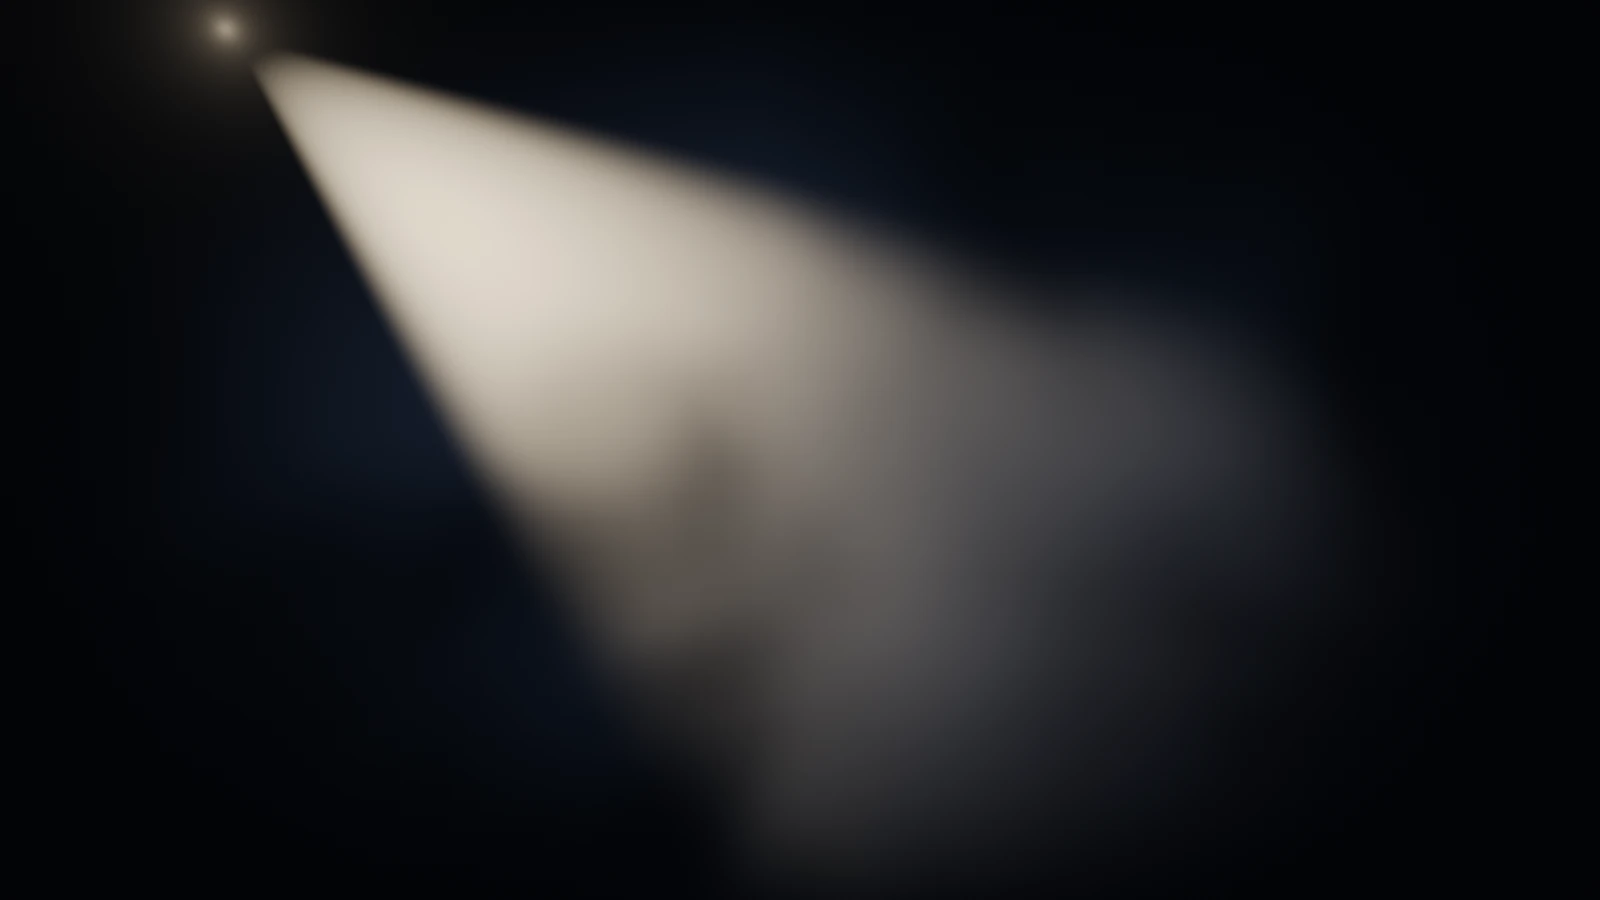
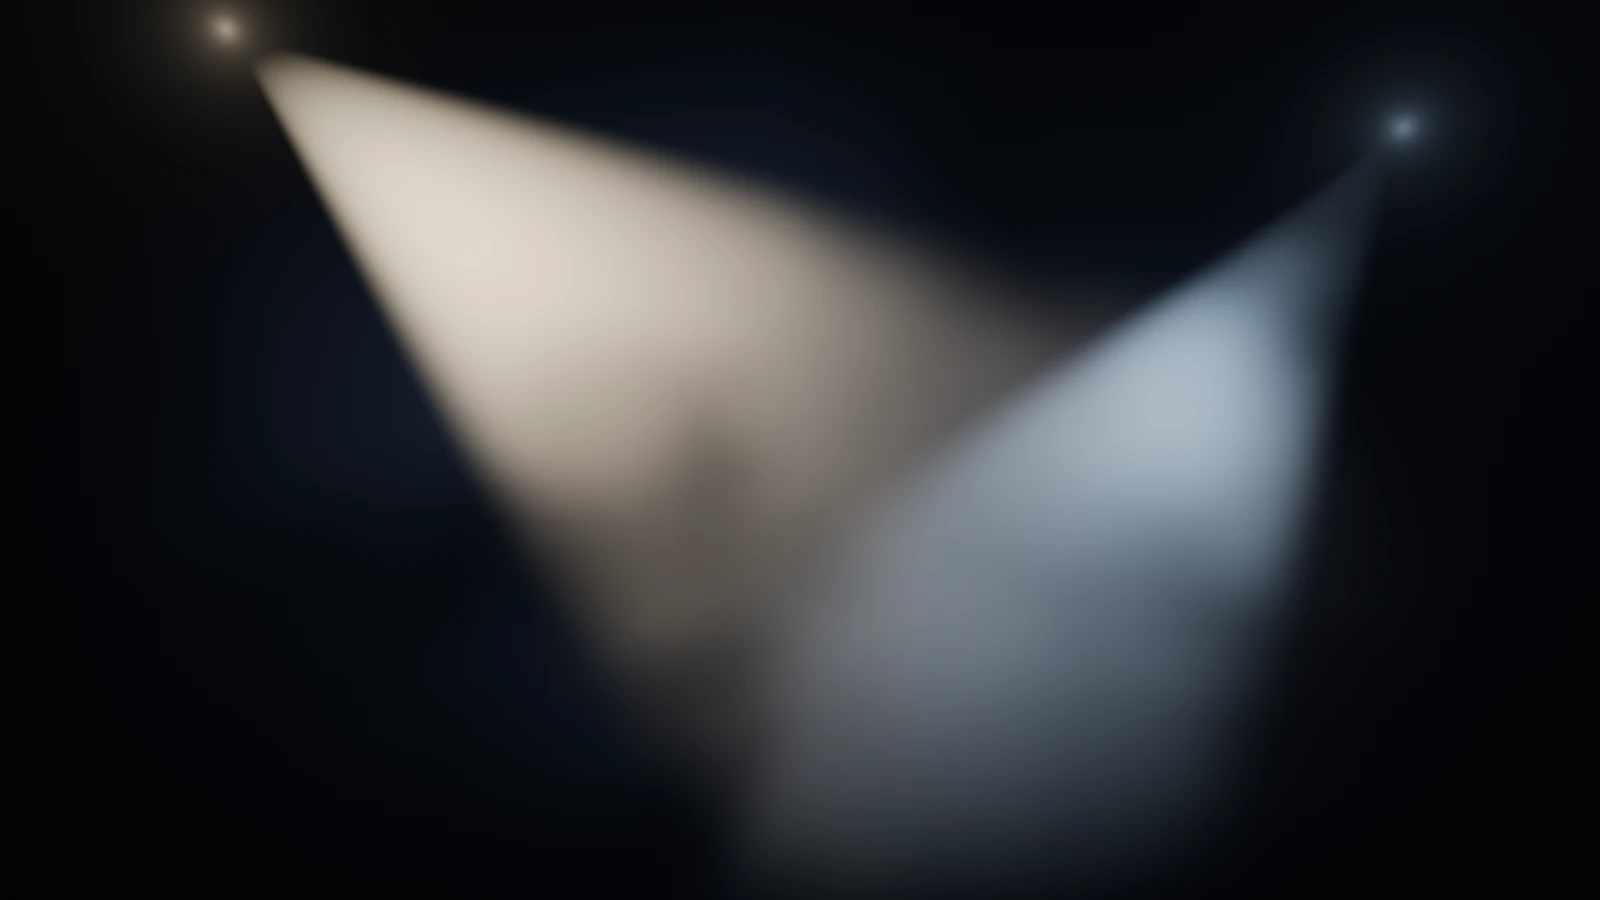
Add a second pointer-tracked WebGPU spotlight

Changed region(s): [[0.5, 0.0622, 0.9375, 0.9333]]

diff --git a/assets/js/light-volume.js b/assets/js/light-volume.js
@@ -1,4 +1,4 @@
-// Light through dust: a single-scattering volume lit by a spotlight, rendered with WebGPU.
+// Light through dust: a single-scattering volume lit by two spotlights, rendered with WebGPU.
 // Density is a baked 3D value-noise volume inside an analytic ellipsoid envelope. Each frame adds
 // one jittered estimate per pixel to a running average that restarts when the light moves.
 // MODEL is shared with tools/render_dust_reference.py, which renders the static fallback image.
@@ -25,6 +25,9 @@ export const MODEL = {
   "lightTarget": [1.35, -1.15, -0.15],
   "lightColor": [1.0, 0.84, 0.64],
   "lightIntensity": 170,
+  "secondLightPosition": [2.9, 1.65, 1.05],
+  "secondLightColor": [0.61, 0.8, 1.0],
+  "secondLightIntensity": 105,
   "cosInner": 0.96,
   "cosOuter": 0.90,
   "ambient": [0.035, 0.05, 0.08],
@@ -129,7 +132,11 @@ const WISP_HIGH = ${number(MODEL.wispHigh)};
 const DENSITY_FLOOR = ${number(MODEL.densityFloor)};
 const DENSITY_GAIN = ${number(MODEL.densityGain)};
 
-@group(0) @binding(0) var<uniform> u: array<vec4f, 8>;
+const SECOND_LIGHT_POSITION = ${vec3(MODEL.secondLightPosition)};
+const SECOND_LIGHT_COLOR = ${vec3(MODEL.secondLightColor)};
+const SECOND_LIGHT_INTENSITY = ${number(MODEL.secondLightIntensity)};
+
+@group(0) @binding(0) var<uniform> u: array<vec4f, 9>;
 @group(0) @binding(1) var volumeTex: texture_3d<f32>;
 @group(0) @binding(2) var volumeSampler: sampler;
 @group(0) @binding(3) var accumTex: texture_2d<f32>;
@@ -183,6 +190,38 @@ fn lightTransmittance(p: vec3f, toLight: vec3f, dist: f32, steps: u32, jitter: f
   return exp(-sigmaT * tau);
 }
 
+struct Spotlight {
+  position: vec3f,
+  direction: vec3f,
+  color: vec3f,
+  intensity: f32,
+}
+
+fn spotlightRadiance(light: Spotlight, p: vec3f, rd: vec3f, jitter: f32) -> vec3f {
+  let delta = light.position - p;
+  let d2 = max(dot(delta, delta), 1e-4);
+  let d = sqrt(d2);
+  let toLight = delta / d;
+  let cone = smoothstep(u[4].w, u[3].w, dot(-toLight, light.direction));
+  if (cone <= 0.0) {
+    return vec3f(0.0);
+  }
+  let sigmaT = u[6].x + u[6].y;
+  let lightT = lightTransmittance(p, toLight, d, u32(u[7].y), jitter, u[5].w, sigmaT);
+  return light.color * (light.intensity * cone * lightT / d2) * phaseHG(dot(rd, toLight), u[6].z);
+}
+
+fn lampHalo(position: vec3f, camera: vec3f, rd: vec3f) -> f32 {
+  let toLamp = position - camera;
+  let along = dot(toLamp, rd);
+  if (along <= 0.0) {
+    return 0.0;
+  }
+  let across = toLamp - rd * along;
+  let across2 = dot(across, across);
+  return 1.0 / (1.0 + 400.0 * across2) + 0.15 / (1.0 + 12.0 * across2);
+}
+
 @vertex
 fn fullscreen(@builtin(vertex_index) index: u32) -> @builtin(position) vec4f {
   let corners = array<vec2f, 3>(vec2f(-1.0, -1.0), vec2f(3.0, -1.0), vec2f(-1.0, 3.0));
@@ -196,19 +235,13 @@ fn trace(@builtin(position) frag: vec4f) -> @location(0) vec4f {
   let blend = u[0].w;
   let camera = u[1].xyz;
   let fovTan = u[1].w;
-  let lightPos = u[2].xyz;
-  let lightIntensity = u[2].w;
-  let lightDir = u[3].xyz;
-  let cosInner = u[3].w;
-  let lightColor = u[4].xyz;
-  let cosOuter = u[4].w;
+  let left = Spotlight(u[2].xyz, u[3].xyz, u[4].xyz, u[2].w);
+  let right = Spotlight(SECOND_LIGHT_POSITION, u[8].xyz, SECOND_LIGHT_COLOR, SECOND_LIGHT_INTENSITY);
   let ambient = u[5].xyz;
   let time = u[5].w;
   let sigmaA = u[6].x;
   let sigmaS = u[6].y;
-  let g = u[6].z;
   let viewSteps = u32(u[7].x);
-  let lightSteps = u32(u[7].y);
 
   let sigmaT = sigmaA + sigmaS;
   let albedo = sigmaS / sigmaT;
@@ -231,30 +264,17 @@ fn trace(@builtin(position) frag: vec4f) -> @location(0) vec4f {
       if (rho > 0.0) {
         let segT = exp(-sigmaT * rho * ds);
         let scatter = albedo * (1.0 - segT);
-        let delta = lightPos - p;
-        let d2 = max(dot(delta, delta), 1e-4);
-        let d = sqrt(d2);
-        let toLight = delta / d;
-        let cone = smoothstep(cosOuter, cosInner, dot(-toLight, lightDir));
-        var key = vec3f(0.0);
-        if (cone > 0.0) {
-          let lightT = lightTransmittance(p, toLight, d, lightSteps, lightJitter, time, sigmaT);
-          key = lightColor * (lightIntensity * cone * lightT / d2) * phaseHG(dot(rd, toLight), g);
-        }
-        radiance += viewT * scatter * (key + ambient);
+        let leftLight = spotlightRadiance(left, p, rd, lightJitter);
+        let rightLight = spotlightRadiance(right, p, rd, lightJitter);
+        radiance += viewT * scatter * (leftLight + rightLight + ambient);
         viewT *= segT;
       }
     }
   }
 
-  let toLamp = lightPos - camera;
-  let along = dot(toLamp, rd);
-  let across = toLamp - rd * along;
-  let across2 = dot(across, across);
-  let halo = 1.0 / (1.0 + 400.0 * across2) + 0.15 / (1.0 + 12.0 * across2);
-  if (along > 0.0) {
-    radiance += viewT * GLARE * lightColor * halo;
-  }
+  let leftGlare = left.color * lampHalo(left.position, camera, rd);
+  let rightGlare = right.color * lampHalo(right.position, camera, rd) * (right.intensity / left.intensity);
+  radiance += viewT * GLARE * (leftGlare + rightGlare);
 
   let background = BACKGROUND * (0.85 + 0.15 * exp(-dot(uv, uv) * 0.7));
   let hdr = radiance + background * viewT;
@@ -396,8 +416,8 @@ export async function createLightVolume(canvas, options = {}) {
 
   const repeatSampler = device.createSampler({ addressModeU: 'repeat', addressModeV: 'repeat', addressModeW: 'repeat', magFilter: 'linear', minFilter: 'linear' });
   const clampSampler = device.createSampler({ addressModeU: 'clamp-to-edge', addressModeV: 'clamp-to-edge', magFilter: 'linear', minFilter: 'linear' });
-  const uniformBuffer = device.createBuffer({ label: 'frame parameters', size: 128, usage: GPUBufferUsage.UNIFORM | GPUBufferUsage.COPY_DST });
-  const uniforms = new Float32Array(32);
+  const uniforms = new Float32Array(36);
+  const uniformBuffer = device.createBuffer({ label: 'frame parameters', size: uniforms.byteLength, usage: GPUBufferUsage.UNIFORM | GPUBufferUsage.COPY_DST });
   const timing = timed ? {
     set: device.createQuerySet({ type: 'timestamp', count: 2 }),
     resolve: device.createBuffer({ size: 16, usage: GPUBufferUsage.QUERY_RESOLVE | GPUBufferUsage.COPY_SRC }),
@@ -420,7 +440,7 @@ export async function createLightVolume(canvas, options = {}) {
     frameIndex: 0,
     accumulated: 0,
     gpuMs: null,
-    previousDirection: null,
+    previousDirections: null,
     samples: [],
     adaptive: false,
     busy: false
@@ -509,9 +529,8 @@ export async function createLightVolume(canvas, options = {}) {
     });
   }
 
-  function lightDirection(aimX, aimY) {
+  function lightDirection(origin, aimX, aimY) {
     const target = MODEL.lightTarget;
-    const origin = MODEL.lightPosition;
     const dx = target[0] + aimX - origin[0];
     const dy = target[1] + aimY - origin[1];
     const dz = target[2] - origin[2];
@@ -519,7 +538,7 @@ export async function createLightVolume(canvas, options = {}) {
     return [dx * inverse, dy * inverse, dz * inverse];
   }
 
-  function writeUniforms(time, direction, blend) {
+  function writeUniforms(time, [left, right], blend) {
     const camera = MODEL.camera;
     const light = MODEL.lightPosition;
     const color = MODEL.lightColor;
@@ -527,25 +546,32 @@ export async function createLightVolume(canvas, options = {}) {
     uniforms.set([state.width, state.height, state.frameIndex, blend], 0);
     uniforms.set([camera[0], camera[1], camera[2], MODEL.fovTan], 4);
     uniforms.set([light[0], light[1], light[2], MODEL.lightIntensity], 8);
-    uniforms.set([direction[0], direction[1], direction[2], MODEL.cosInner], 12);
+    uniforms.set([left[0], left[1], left[2], MODEL.cosInner], 12);
     uniforms.set([color[0], color[1], color[2], MODEL.cosOuter], 16);
     uniforms.set([ambient[0], ambient[1], ambient[2], time], 20);
     uniforms.set([MODEL.sigmaA, MODEL.sigmaS, MODEL.g, MODEL.exposure], 24);
     uniforms.set([state.viewSteps, state.lightSteps, state.canvasWidth, state.canvasHeight], 28);
+    uniforms.set(right, 32);
     device.queue.writeBuffer(uniformBuffer, 0, uniforms);
   }
 
   function frame(time, aimX, aimY) {
     if (failed || disposed || state.busy) return;
-    const direction = lightDirection(aimX, aimY);
-    const previous = state.previousDirection;
-    if (previous && Math.hypot(direction[0] - previous[0], direction[1] - previous[1], direction[2] - previous[2]) > 1e-3) {
+    const directions = [
+      lightDirection(MODEL.lightPosition, aimX, aimY),
+      lightDirection(MODEL.secondLightPosition, aimX, aimY)
+    ];
+    const previous = state.previousDirections;
+    if (previous && directions.some(([x, y, z], index) => {
+      const [px, py, pz] = previous[index];
+      return Math.hypot(x - px, y - py, z - pz) > 1e-3;
+    })) {
       state.accumulated = 0;
     }
-    state.previousDirection = direction;
+    state.previousDirections = directions;
     const count = Math.min(state.accumulated + 1, ACCUMULATION_LIMIT);
     state.accumulated = count;
-    writeUniforms(time, direction, 1 / count);
+    writeUniforms(time, directions, 1 / count);
 
     const p = state.frameIndex & 1;
     const timestamps = Boolean(timing) && !timing.busy;

diff --git a/_includes/head.html b/_includes/head.html
@@ -41,7 +41,7 @@
   <meta name="theme-color" content="#06080b" />
   <meta name="color-scheme" content="dark" />
   <link rel="preload" href="{{ '/assets/fonts/manrope-latin.woff2' | relative_url }}" as="font" type="font/woff2" crossorigin />
-  <link rel="preload" as="image" type="image/webp" href="{{ '/assets/images/dust-volume-fallback.webp' | relative_url }}"{% if page.url == '/' %} fetchpriority="high"{% endif %} />
+  <link rel="preload" as="image" type="image/webp" href="{{ '/assets/images/dust-volume-fallback.webp' | relative_url }}?v=20261114-two-spotlights"{% if page.url == '/' %} fetchpriority="high"{% endif %} />
   <link rel="stylesheet" href="{{ '/assets/css/style.css' | relative_url }}?v=20261114-metrics-motion" />
   <title>{{ seo_title | xml_escape }}</title>
   <meta name="description" content="{{ seo_description | xml_escape }}" />

diff --git a/_layouts/default.html b/_layouts/default.html
@@ -3,7 +3,7 @@
   {% include head.html %}
   <body{% if page.url == '/' %} class="home"{% endif %} data-volume data-state="loading">
     <div class="volume-background" data-volume-stage aria-hidden="true">
-      <img class="volume-background__still" data-volume-still src="{{ '/assets/images/dust-volume-fallback.webp' | relative_url }}" width="1600" height="900" alt="" decoding="async" />
+      <img class="volume-background__still" data-volume-still src="{{ '/assets/images/dust-volume-fallback.webp' | relative_url }}?v=20261114-two-spotlights" width="1600" height="900" alt="" decoding="async" />
       <canvas class="volume-background__canvas" data-volume-canvas width="1600" height="900" hidden></canvas>
     </div>
     {% include header.html %}

diff --git a/index.html b/index.html
@@ -27,7 +27,7 @@ description: Semih Güreşçi is a GPU rendering and performance engineer in Lux
         <a class="btn btn--ghost" href="{{ '/cv/' | relative_url }}">Read the CV</a>
         <a class="btn btn--linkedin" href="{{ site.social_linkedin }}" target="_blank" rel="noopener">LinkedIn profile <span aria-hidden="true">↗</span><span class="visually-hidden"> (opens in a new tab)</span></a>
       </div>
-      <p class="hero__hint">The background is a live volume study: dust drifts and boils through the beam while the pointer steers the light.</p>
+      <p class="hero__hint">Dust drifts through both beams as you steer the spotlights with your pointer.</p>
     </div>
   </div>
 

diff --git a/_includes/scripts.html b/_includes/scripts.html
@@ -1,2 +1,2 @@
 <script src="{{ '/assets/js/site.js' | relative_url }}?v=20261114-metrics-motion" defer></script>
-<script type="module" src="{{ '/assets/js/light-volume.js' | relative_url }}?v=20261114-hero-controls"></script>
+<script type="module" src="{{ '/assets/js/light-volume.js' | relative_url }}?v=20261114-two-spotlights"></script>

diff --git a/tools/render_dust_reference.py b/tools/render_dust_reference.py
@@ -167,9 +167,20 @@ def light_transmittance(model, grid, p, to_light, distance, time_seconds, sigma_
 
 def render_hdr(model, grid, width, height, view_steps, light_steps, time_seconds=0.0, rows_per_chunk=24):
     camera = np.asarray(model["camera"], dtype=np.float64)
-    light_pos = np.asarray(model["lightPosition"], dtype=np.float64)
-    light_dir = normalize(np.asarray(model["lightTarget"], dtype=np.float64) - light_pos)
-    light_color = np.asarray(model["lightColor"], dtype=np.float64)
+    target = np.asarray(model["lightTarget"], dtype=np.float64)
+    lights = []
+    for position, color, intensity, glare in (
+        (model["lightPosition"], model["lightColor"], model["lightIntensity"], model["glare"]),
+        (
+            model["secondLightPosition"],
+            model["secondLightColor"],
+            model["secondLightIntensity"],
+            model["glare"] * model["secondLightIntensity"] / model["lightIntensity"],
+        ),
+    ):
+        pos = np.asarray(position, dtype=np.float64)
+        lights.append((pos, normalize(target - pos), np.asarray(color, dtype=np.float64), intensity, glare))
+    cos_outer, cos_inner = model["cosOuter"], model["cosInner"]
     ambient = np.asarray(model["ambient"], dtype=np.float64)
     background = np.asarray(model["background"], dtype=np.float64)
     ellipsoid = np.asarray(model["ellipsoid"], dtype=np.float64)
@@ -200,26 +211,27 @@ def render_hdr(model, grid, width, height, view_steps, light_steps, time_seconds
             scatter = albedo * (1.0 - seg_t)
             radiance += (view_t * scatter)[..., None] * ambient
 
-            delta = light_pos - p
-            d2 = np.maximum(np.sum(delta * delta, axis=-1), 1e-4)
-            d = np.sqrt(d2)
-            to_light = delta / d[..., None]
-            cone = smoothstep(model["cosOuter"], model["cosInner"], -np.sum(to_light * light_dir, axis=-1))
-            lit = (cone > 0.0) & (rho > 0.0)
-            if np.any(lit):
-                light_t = light_transmittance(model, grid, p[lit], to_light[lit], d[lit], time_seconds, sigma_t, light_steps)
-                phase = phase_hg(np.sum(rd[lit] * to_light[lit], axis=-1), g)
-                key = light_color * (model["lightIntensity"] * cone[lit] * light_t / d2[lit] * phase)[:, None]
-                radiance[lit] += (view_t[lit] * scatter[lit])[:, None] * key
+            for light_pos, light_dir, light_color, intensity, _ in lights:
+                delta = light_pos - p
+                d2 = np.maximum(np.sum(delta * delta, axis=-1), 1e-4)
+                d = np.sqrt(d2)
+                to_light = delta / d[..., None]
+                cone = smoothstep(cos_outer, cos_inner, -np.sum(to_light * light_dir, axis=-1))
+                lit = (cone > 0.0) & (rho > 0.0)
+                if np.any(lit):
+                    light_t = light_transmittance(model, grid, p[lit], to_light[lit], d[lit], time_seconds, sigma_t, light_steps)
+                    phase = phase_hg(np.sum(rd[lit] * to_light[lit], axis=-1), g)
+                    key = light_color * (intensity * cone[lit] * light_t / d2[lit] * phase)[:, None]
+                    radiance[lit] += (view_t[lit] * scatter[lit])[:, None] * key
             view_t *= seg_t
 
-        to_lamp = light_pos - camera
-        along = np.sum(rd * to_lamp, axis=-1)
-        across = to_lamp - rd * along[..., None]
-        across2 = np.sum(across * across, axis=-1)
-        halo = 1.0 / (1.0 + 400.0 * across2) + 0.15 / (1.0 + 12.0 * across2)
-        glare = view_t * model["glare"] * (along > 0.0) * halo
-        radiance += glare[..., None] * light_color
+        for light_pos, _, light_color, _, glare in lights:
+            to_lamp = light_pos - camera
+            along = np.sum(rd * to_lamp, axis=-1)
+            across = to_lamp - rd * along[..., None]
+            across2 = np.sum(across * across, axis=-1)
+            halo = 1.0 / (1.0 + 400.0 * across2) + 0.15 / (1.0 + 12.0 * across2)
+            radiance += (view_t * glare * (along > 0.0) * halo)[..., None] * light_color
 
         glow = np.exp(-0.7 * (uv_x * uv_x + uv_y * uv_y))
         radiance += (background * (0.85 + 0.15 * glow)[..., None]) * view_t[..., None]

diff --git a/tools/validate_volume_study.py b/tools/validate_volume_study.py
@@ -15,7 +15,7 @@ import numpy as np
 
 sys.path.insert(0, str(Path(__file__).resolve().parent))
 
-from render_dust_reference import SOURCE, box_span, build_volume, load_model, phase_hg, value_noise  # noqa: E402
+from render_dust_reference import SOURCE, box_span, build_volume, load_model, phase_hg, render_hdr, value_noise  # noqa: E402
 
 
 def check(condition: bool, message: str, failures: list[str]) -> None:
@@ -52,12 +52,21 @@ def main() -> int:
     share = float(np.mean((grid > low) & (grid < high)))
     check(0.05 < share < 0.95, f"wisp thresholds cover a useful share of the volume ({share:.2f} in transition band)", failures)
 
-    # The lamp and camera stay outside the dust envelope, so the spotlight never sits inside the medium.
+    # The lamps and camera stay outside the dust envelope.
     ellipsoid = np.asarray(model["ellipsoid"])
-    for name in ("lightPosition", "camera"):
+    for name in ("lightPosition", "secondLightPosition", "camera"):
         point = np.asarray(model[name])
         radius = float(np.sum((point / ellipsoid) ** 2))
         check(radius > 1.0, f"{name} lies outside the dust envelope (r^2 = {radius:.2f})", failures)
+
+    # Isolate volumetric scattering from lamp glare when checking the second beam.
+    no_glare = {**model, "glare": 0}
+    primary_only = render_hdr({**no_glare, "secondLightIntensity": 0}, grid, 64, 36, 12, 4)
+    both = render_hdr(no_glare, grid, 64, 36, 12, 4)
+    brighter = render_hdr({**no_glare, "secondLightIntensity": 2 * model["secondLightIntensity"]}, grid, 64, 36, 12, 4)
+    second_light = both - primary_only
+    check(np.max(second_light) > 1e-6, "second spotlight illuminates the dust", failures)
+    check(np.allclose(brighter - both, second_light), "second spotlight radiance scales with intensity", failures)
 
     # Ray-box span: a ray through the centre crosses the envelope symmetrically.
     origin = np.array([0.0, 0.0, 6.0])

diff --git a/docs/site.md b/docs/site.md
@@ -61,18 +61,18 @@ After cutover, check the HTTP redirect and both framing headers on the homepage,
 
 ## WebGPU background
 
-The site background is a single-scattering volume lit by a spotlight. The shared layout keeps the canvas fixed behind the content while you scroll. Browsers that support the Navigation API replace the main content when you follow an internal page link, keeping the same canvas and renderer running. When WebGPU is unavailable or the device is lost, the background shows the static render from `assets/images/dust-volume-fallback.webp`.
+The site background is a single-scattering volume lit by a warm spotlight on the upper left and a cool spotlight on the upper right. The shared layout keeps the canvas fixed behind the content while you scroll. Browsers that support the Navigation API replace the main content when you follow an internal page link, keeping the same canvas and renderer running. When WebGPU is unavailable or the device is lost, the background shows the static render from `assets/images/dust-volume-fallback.webp`.
 
 Each frame does the following:
 
 1. **Density:** a 64³ value-noise volume is baked by a compute pass at startup. Each density sample is one trilinear fetch. The field drifts across the frame, and a time-varying warp makes the dust boil, so the structure keeps changing. An analytic ellipsoid envelope keeps the edges soft.
-2. **Trace:** each pixel takes one jittered estimate. Each sample marches toward the spotlight to estimate shadowing. A cool ambient term adds fill, and a stylized lamp glare marks the source.
+2. **Trace:** each pixel takes one jittered estimate. A sample inside either spotlight cone marches toward that light to estimate shadowing. A cool ambient term adds fill, and a halo marks each light source.
 3. **Accumulation:** the estimate is blended into a running average of eight frames. That smooths the jitter without smearing the moving dust. The average restarts when the light moves.
 4. **Present:** an ACES tone map, a small glow around bright regions, a vignette, and triangular dither before the sRGB encode.
 
 The HUD reports GPU time from timestamp queries when the browser exposes them, and it plots the last 120 samples against a 10 ms budget. In Auto quality, the render scale adjusts to hold that budget. Eco, Balanced, and Ultra fix the scale and sample counts.
 
-The spotlight aims toward the pointer across the site. Its target stays inside the dust volume near the viewport edges. The beam sweeps on its own when the pointer leaves the page. The pause button sits next to Render quality on the homepage and in the header on other pages. It stops the automatic motion and remembers the choice for the tab. Reduced motion starts paused. The animation also pauses when the tab is hidden.
+Both spotlights aim toward the pointer across the site. Their shared target stays inside the dust volume near the viewport edges. The beams sweep on their own when the pointer leaves the page. The pause button sits next to Render quality on the homepage and in the header on other pages. It stops the automatic motion and remembers the choice for the tab. Reduced motion starts paused. The animation also pauses when the tab is hidden.
 
 ### Volume model
 
@@ -86,7 +86,7 @@ L += Tview * (sigmaS / sigmaT) * (1 - Tsegment) * (incident * phaseHG(mu) + ambi
 Tview *= Tsegment
 ```
 
-`warp(t)` is a smooth set of sine offsets in the three axes, so the dust boils as well as drifting. `sigmaT = sigmaA + sigmaS`. The segment transmittance is analytic. The in-scattered light is sampled at the jittered point. The spotlight has inverse-square falloff and a soft cone. The Henyey–Greenstein phase uses `g = 0.30`. The references are [Beer–Lambert transmittance](https://www.pbr-book.org/4ed/Volume_Scattering/Transmittance) and [Henyey–Greenstein scattering](https://www.pbr-book.org/4ed/Volume_Scattering/Phase_Functions).
+`warp(t)` is a smooth set of sine offsets in the three axes, so the dust boils as well as drifting. `sigmaT = sigmaA + sigmaS`. The segment transmittance is analytic. The in-scattered light is sampled at the jittered point. Both spotlights have inverse-square falloff and soft cones. The Henyey–Greenstein phase uses `g = 0.30`. The references are [Beer–Lambert transmittance](https://www.pbr-book.org/4ed/Volume_Scattering/Transmittance) and [Henyey–Greenstein scattering](https://www.pbr-book.org/4ed/Volume_Scattering/Phase_Functions).
 
 Because the same `MODEL` object feeds both the WGSL shaders and the Python reference, editing a parameter there and regenerating the fallback keeps the static image in step with the live background.
 
